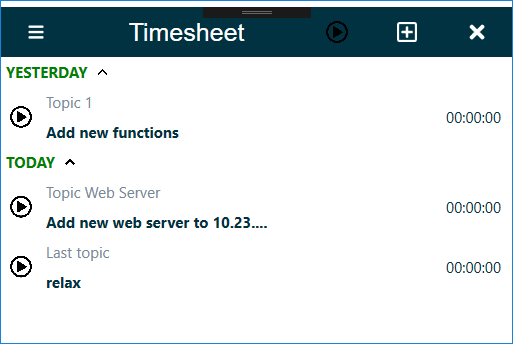
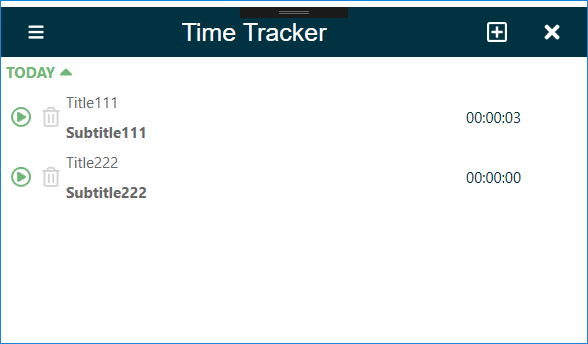
window width

diff --git a/TimeTracker/MainWindow.xaml b/TimeTracker/MainWindow.xaml
@@ -5,7 +5,7 @@
         xmlns:mc="http://schemas.openxmlformats.org/markup-compatibility/2006"
         xmlns:local="clr-namespace:TimeTracker"
         mc:Ignorable="d"
-        Title="MainWindow" Height="350" Width="525" WindowStyle="None">
+        Title="MainWindow" Height="350" Width="600" WindowStyle="None">
 
     <Grid>
         <Grid.ColumnDefinitions>
@@ -18,23 +18,23 @@
 
         <Rectangle Grid.Row="0" Grid.Column="0" Fill="#003241" Grid.ColumnSpan="2" MouseLeftButtonDown="Window_MouseDown"></Rectangle>
 
-        <Grid Grid.Row="0" Grid.Column="0">
+        <Grid Grid.Row="0" Grid.Column="0" Grid.ColumnSpan="2">
             <Grid.ColumnDefinitions>
                 <ColumnDefinition Width="70"/>
                 <ColumnDefinition Width="*"/>
-                <ColumnDefinition Width="70"/>
-                <ColumnDefinition Width="70"/>
+                <ColumnDefinition Width="40"/>
+                <ColumnDefinition Width="40"/>
                 <ColumnDefinition Width="70"/>
             </Grid.ColumnDefinitions>
             <Image Grid.Row="0" Grid.Column="0" Source="{DynamicResource menu}" Margin="10" Height="15" Width="15" MouseLeftButtonDown="Image_MouseLeftButtonDown"></Image>
-            <Label Grid.Row="0" Grid.Column="1" VerticalAlignment="Center" HorizontalAlignment="Center" Foreground="White" FontSize="25" FontFamily="Arial">Timesheet</Label>
-            <Image Name="StartStopTimer" Grid.Row="0" Grid.Column="2" Source="Assets/play-circle-regular.png" Margin="10" Height="40" Width="40" MouseLeftButtonDown="Image_MouseLeftButtonDown_1"></Image>
+            <Label Grid.Row="0" Grid.Column="1" VerticalAlignment="Center" HorizontalAlignment="Center" Foreground="White" FontSize="25" FontFamily="Arial" MouseLeftButtonDown="Window_MouseDown">Time Tracker</Label>
+            <Image Name="StopTimer" Grid.Row="0" Grid.Column="2" Source="{DynamicResource stop}" Margin="10" Height="20" Width="20" MouseLeftButtonDown="StopTimer_MouseLeftButtonDown"></Image>
             <Image Name="Add" Grid.Row="0" Grid.Column="3" Source="{DynamicResource plus}" Margin="10" Height="20" Width="20" MouseLeftButtonDown="addNewProject_MouseLeftButtonDown" MouseEnter="OpenPopupButton_MouseEnter" MouseLeave="OpenPopupButton_MouseLeave"></Image>
             <Image Name="Close" Grid.Row="0" Grid.Column="4" Source="{DynamicResource close}" Margin="10" Height="15" Width="15" MouseLeftButtonDown="Close_MouseLeftButtonDown"></Image>
         </Grid>
 
 
-        <ScrollViewer VerticalScrollBarVisibility="Auto" Grid.Row="1" Grid.Column="0">
+        <ScrollViewer VerticalScrollBarVisibility="Auto" Grid.Row="1" Grid.Column="0" Grid.ColumnSpan="2">
             <Grid Name="DataGrid">
                 <Grid.ColumnDefinitions>
                     <ColumnDefinition Width="437*"/>

diff --git a/TimeTracker/MainWindow.xaml.cs b/TimeTracker/MainWindow.xaml.cs
@@ -34,6 +34,7 @@ namespace TimeTracker
             InitializeComponent();
             mainStack = new StackPanel();
             mainStack.Orientation = Orientation.Vertical;
+            StopTimer.Visibility = Visibility.Hidden;
 
             DataGrid.Children.Add(mainStack);
 
@@ -227,6 +228,7 @@ namespace TimeTracker
             if (!findData.timerData.isTimerRunning)
             {
                 image.Source = ResourcePathToImageSource("stop");
+                StopTimer.Visibility = Visibility.Visible;
                 var myId = stack.Name.Split('_');
                 int index = int.Parse(getId[1]);
 
@@ -248,6 +250,7 @@ namespace TimeTracker
             else
             {
                 image.Source = ResourcePathToImageSource("play");
+                StopTimer.Visibility = Visibility.Hidden;
                 var myId = stack.Name.Split('_');
                 int index = int.Parse(getId[1]);
 
@@ -427,6 +430,11 @@ namespace TimeTracker
         private void Close_MouseLeftButtonDown(object sender, MouseButtonEventArgs e)
         {
             Application.Current.Shutdown();
+        }
+
+        private void StopTimer_MouseLeftButtonDown(object sender, MouseButtonEventArgs e)
+        {
+
         }
     }
 }
